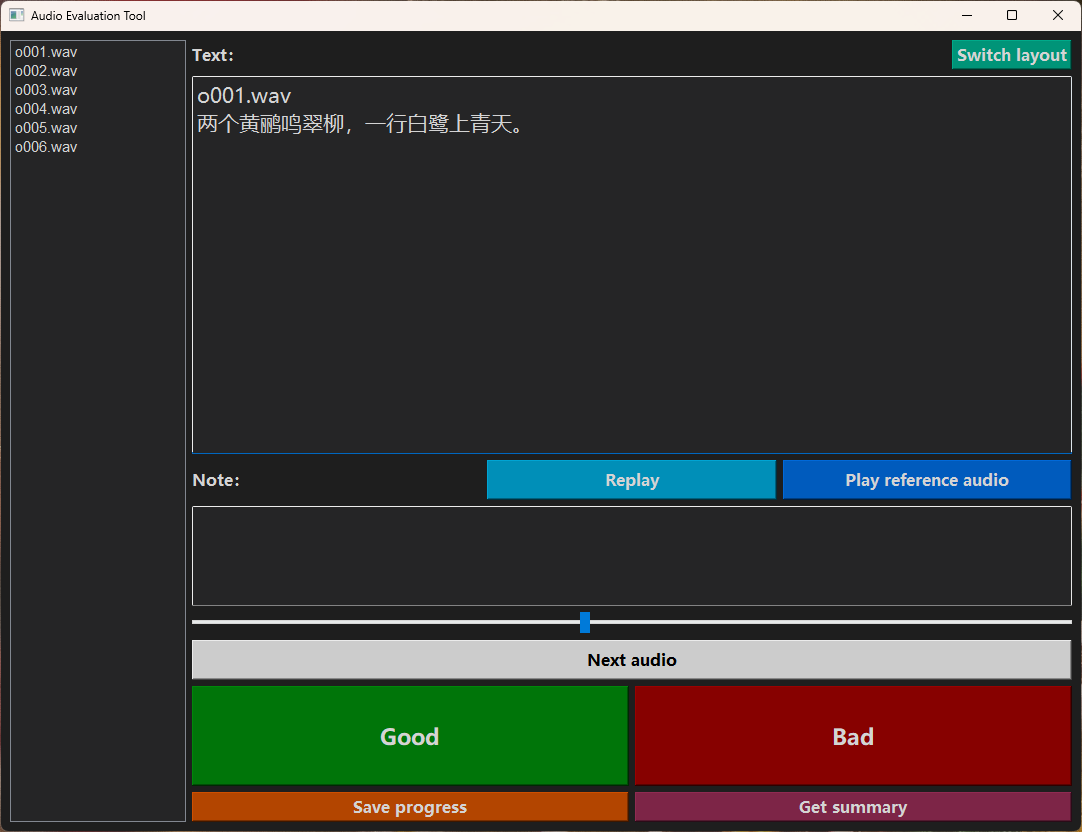
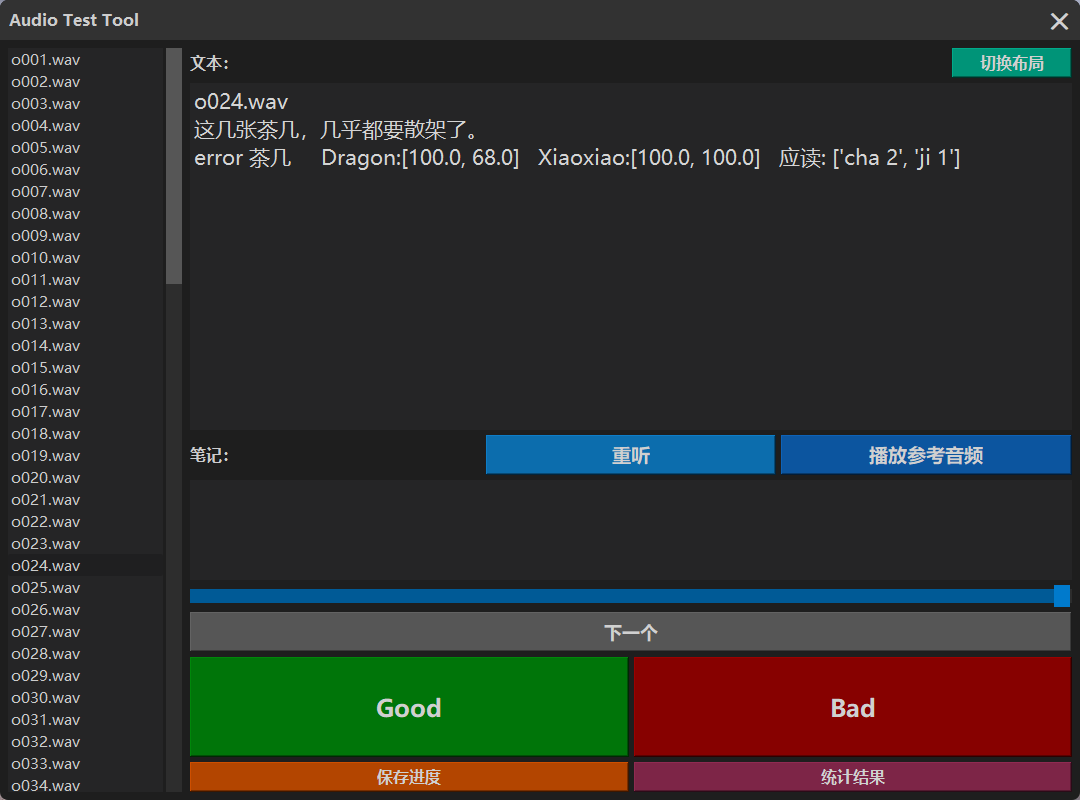
update

diff --git a/pyqt_evaluation_tool.py b/pyqt_evaluation_tool.py
@@ -6,6 +6,7 @@ from PyQt5.QtWidgets import QApplication, QMainWindow, QPushButton, QTextEdit, Q
 from PyQt5.QtCore import QTimer, Qt
 import simpleaudio as sa
 import wave
+import pandas as pd
 
 
 class ClickableSlider(QSlider):
@@ -20,8 +21,8 @@ class ClickableSlider(QSlider):
 
             new_value = round((x / slider_length) * (slider_max - slider_min) + slider_min)
             self.setValue(new_value)
-            self.sliderReleased.emit()
         super().mousePressEvent(event)
+        self.sliderReleased.emit()
         
 
 class PyqtEvaluationTool(QMainWindow):
@@ -52,33 +53,74 @@ class PyqtEvaluationTool(QMainWindow):
     def setup_ui(self):
         """UI setup
         """
-        # dark theme
+        self.setWindowFlags(Qt.FramelessWindowHint)
+        # 设置深色主题
         self.setStyleSheet("""
             QWidget {
-                background-color: #1e1e1e;
-                color: #d4d4d4;
-                font-family: Microsoft YaHei UI;
-                font-weight: bold;
+            background-color: #1e1e1e;
+            color: #CCCCCC;
+            font-family: Microsoft YaHei UI;
+            font-weight: bold;
             }
             QLabel {
-                font-size: 12pt;
-                font-family: Microsoft YaHei UI;
-                font-weight: bold;
-                color: #d4d4d4;
+            font-size: 12pt;
+            font-family: Microsoft YaHei UI;
+            font-weight: bold;
+            color: #CCCCCC;
+            }
+            QPushButton {
+            font-size: 18pt;
+            font-family: Microsoft YaHei UI;
+            font-weight: bold;
+            color: #d0d0d0;
             }
             QTextEdit {
-                font-size: 16pt;
-                font-family: Microsoft YaHei;
-                font-weight: normal;
-                background-color: #252526;
-                color: #d4d4d4;
+            background-color: #252526;
+            font-size: 16pt;
+            font-family: Microsoft YaHei;
+            font-weight: normal;
+            color: #d4d4d4;
+            border: none;
             }
             QListWidget {
-                font-size: 12pt;
-                font-family: Arial;
-                font-weight: normal;
-                background-color: #252526;
-                color: #d4d4d4;
+            background-color: #252526;
+            font-size: 14pt;
+            font-family: Microsoft YaHei UI;
+            font-weight: normal;
+            color: #CCCCCC;
+            border: none;
+            }
+            QScrollBar:vertical {
+            background: #2d2d2d;
+            width: 22px;
+            margin: 0px 3px 0px 3px;
+            border: none;
+            }
+            QScrollBar::handle:vertical {
+            background: #565656;
+            min-height: 20px;
+            }
+            QScrollBar::add-line:vertical, QScrollBar::sub-line:vertical {
+            background: none;
+            height: 0px;
+            }
+            QScrollBar::add-page:vertical, QScrollBar::sub-page:vertical {
+            background: none;
+            }
+            QSlider::groove:horizontal {
+            height: 14px;  /* 轨道高度 */
+            background: #2d2d2d;  /* 轨道背景颜色 */
+            }
+            QSlider::handle:horizontal {
+            background: #007acc;  /* 滑块颜色 */
+            width: 16px;  /* 滑块宽度 */
+            margin: -5px 0;  /* 滑块与轨道的对齐调整 */
+            }
+            QSlider::sub-page:horizontal {
+            background: #005a96;  /* 已滑动部分轨道颜色 */
+            }
+            QSlider::add-page:horizontal {
+            background: #2d2d2d;  /* 未滑动部分轨道颜色 */
             }
         """)
         
@@ -93,7 +135,35 @@ class PyqtEvaluationTool(QMainWindow):
         # create main layout
         main_layout = QHBoxLayout()
         
-        # left layout for audio list
+        # 添加自定义标题栏
+        self.title_bar = QWidget(self)
+        self.title_bar.setFixedHeight(40)
+        self.title_bar.setStyleSheet("""background-color: #323232; border-top-left-radius: 8px;""")
+        
+        self.title_label = QLabel("Audio Test Tool", self.title_bar)
+        title_layout = QHBoxLayout(self.title_bar)
+        title_layout.addWidget(self.title_label)
+        title_layout.addStretch()
+        
+        self.close_button = QPushButton('\u2715', self)
+        self.close_button.setFixedSize(40, 40)
+        self.close_button.setStyleSheet("""
+            QPushButton {
+                background-color: #323232;
+                border-top-right-radius: 8px;
+            }
+            QPushButton:hover {
+                background-color: #ff0000;
+            }
+        """)
+        self.close_button.clicked.connect(self.close)
+        
+        title_layout = QHBoxLayout()
+        title_layout.addWidget(self.title_bar)
+        title_layout.addWidget(self.close_button)
+        title_layout.setContentsMargins(0, 0, 0, 0)
+        
+        # 左侧列表控件
         self.list_widget = QListWidget()
         self.list_widget.setStyleSheet("font-size: 11pt;")
         self.list_widget.itemClicked.connect(self.on_item_clicked)
@@ -160,7 +230,7 @@ class PyqtEvaluationTool(QMainWindow):
         # Next button
         self.next_button = QPushButton("Next audio", self)
         self.next_button.setFixedHeight(40)
-        self.next_button.setStyleSheet("font-size: 16px; color: black; background-color: #cccccc;")
+        self.next_button.setStyleSheet("font-size: 18px; background-color: #565656;")
         self.next_button.clicked.connect(lambda: self.next_audio())
         right_layout.addWidget(self.next_button)
 
@@ -168,42 +238,26 @@ class PyqtEvaluationTool(QMainWindow):
         button_layout = QHBoxLayout()
         self.TP_button = QPushButton("True Positive", self)
         self.TP_button.setFixedHeight(100)  # 增加高度
-        self.TP_button.setStyleSheet("""
-                font-size: 22px; 
-                font-weight: bold; 
-                background-color: #007509; 
-                """)
-        self.TP_button.clicked.connect(lambda: self.mark_result("TP"))
+        self.TP_button.setStyleSheet("""background-color: #00750a; """)
+        self.TP_button.clicked.connect(lambda: self.mark_result("TN"))
         button_layout.addWidget(self.TP_button)
         
         self.TN_button = QPushButton("True Negative", self)
         self.TN_button.setFixedHeight(100)  # 增加高度
-        self.TN_button.setStyleSheet("""
-                font-size: 22px; 
-                font-weight: bold; 
-                background-color: #00870a; 
-                """)
-        self.TN_button.clicked.connect(lambda: self.mark_result("TN"))
+        self.TN_button.setStyleSheet("""background-color: #00800a; """)
+        self.TN_button.clicked.connect(lambda: self.mark_result("TP"))
         button_layout.addWidget(self.TN_button)
                 
         self.FP_button = QPushButton("False Positive", self)
         self.FP_button.setFixedHeight(100)
-        self.FP_button.setStyleSheet("""
-                font-size: 22px; 
-                font-weight: bold; 
-                background-color: #870100; 
-                """)
-        self.FP_button.clicked.connect(lambda: self.mark_result("FP"))
+        self.FP_button.setStyleSheet("""background-color: #800100; """)
+        self.FP_button.clicked.connect(lambda: self.mark_result("FN"))
         button_layout.addWidget(self.FP_button)
 
         self.FN_button = QPushButton("False Negative", self)
         self.FN_button.setFixedHeight(100)
-        self.FN_button.setStyleSheet("""
-                font-size: 22px; 
-                font-weight: bold; 
-                background-color: #750100; 
-                """)
-        self.FN_button.clicked.connect(lambda: self.mark_result("FN"))
+        self.FN_button.setStyleSheet("""background-color: #750100; """)
+        self.FN_button.clicked.connect(lambda: self.mark_result("FP"))
         button_layout.addWidget(self.FN_button)
         
         right_layout.addLayout(button_layout)
@@ -211,22 +265,14 @@ class PyqtEvaluationTool(QMainWindow):
         # create layout for good and bad buttons
         button_layout2 = QHBoxLayout()
         self.TP_button2 = QPushButton("Good", self)
-        self.TP_button2.setFixedHeight(100)
-        self.TP_button2.setStyleSheet("""
-                font-size: 22px;
-                font-weight: bold;
-                background-color: #007509;
-                """)
+        self.TP_button2.setFixedHeight(100)  # 增加高度
+        self.TP_button2.setStyleSheet("""background-color: #007509;""")
         self.TP_button2.clicked.connect(lambda: self.mark_result("T"))
         button_layout2.addWidget(self.TP_button2)
         
         self.TN_button2 = QPushButton("Bad", self)
-        self.TN_button2.setFixedHeight(100)
-        self.TN_button2.setStyleSheet("""
-                font-size: 22px;
-                font-weight: bold;
-                background-color: #870100;
-                """)
+        self.TN_button2.setFixedHeight(100)  # 增加高度
+        self.TN_button2.setStyleSheet("""background-color: #870100;""")
         self.TN_button2.clicked.connect(lambda: self.mark_result("F"))
         button_layout2.addWidget(self.TN_button2)
         
@@ -246,14 +292,52 @@ class PyqtEvaluationTool(QMainWindow):
         save_exit_layout.addWidget(self.exit_button)
         
         right_layout.addLayout(save_exit_layout)
+        
+        # 创建一个垂直布局，将title_bar放在顶部
+        vertical_layout = QVBoxLayout()
+        vertical_layout.setContentsMargins(0, 0, 0, 0)
+        vertical_layout.setSpacing(0)
+        vertical_layout.addLayout(title_layout)
+        vertical_layout.addLayout(main_layout)
 
-        # add layouts to main layout
+        main_layout.setContentsMargins(8, 8, 8, 8)
+        main_layout.setSpacing(5)
         main_layout.addWidget(self.list_widget, 1)
         main_layout.addLayout(right_layout, 5)
 
         container = QWidget()
-        container.setLayout(main_layout)
+        container.setLayout(vertical_layout)
         self.setCentralWidget(container)
+        
+        self.setWindowFlags(Qt.FramelessWindowHint | Qt.WindowMinimizeButtonHint | Qt.WindowMaximizeButtonHint | Qt.WindowCloseButtonHint)
+        self.setAttribute(Qt.WA_TranslucentBackground, True)
+        container.setObjectName("mainContainer")
+        container.setStyleSheet("#mainContainer {border-radius: 8px; }")
+        
+    def mousePressEvent(self, event):
+        if event.button() == Qt.LeftButton:
+            # 将点击坐标转换到 title_bar 的坐标系，再检查是否在 title_bar 的范围内
+            local_pos = self.title_bar.mapFromParent(event.pos())
+            if self.title_bar.rect().contains(local_pos):
+                self.drag_position = event.globalPos() - self.frameGeometry().topLeft()
+                event.accept()
+            else:
+                self.drag_position = None
+                super().mousePressEvent(event)
+        else:
+            self.drag_position = None
+            super().mousePressEvent(event)
+
+    def mouseMoveEvent(self, event):
+        if event.buttons() & Qt.LeftButton and self.drag_position is not None:
+            self.move(event.globalPos() - self.drag_position)
+            event.accept()
+        else:
+            super().mouseMoveEvent(event)
+
+    def mouseReleaseEvent(self, event):
+        self.drag_position = None
+        super().mouseReleaseEvent(event)
 
     def play_reference_audio_button_clicked(self):
         if self.reference_audio_files and 0 <= self.current_index < len(self.reference_audio_files):
@@ -474,12 +558,13 @@ class PyqtEvaluationTool(QMainWindow):
             note_content = self.note.toPlainText()
             # wrong_word = note_content.split('\n')[0] if '\n' in note_content else ''
             error_word = note_content.split('\n')[0] if '\n' in note_content else ''
+            error_note = note_content.split('\n')[1] if '\n' in note_content else note_content
             self.results.append({
                 'file': os.path.basename(current_audio), 
                 'text': self.text,
                 'result': result,
                 'error_word': error_word,
-                'note': note_content
+                'note': error_note
             })
         else:
             print("No audio files or index out of range")
